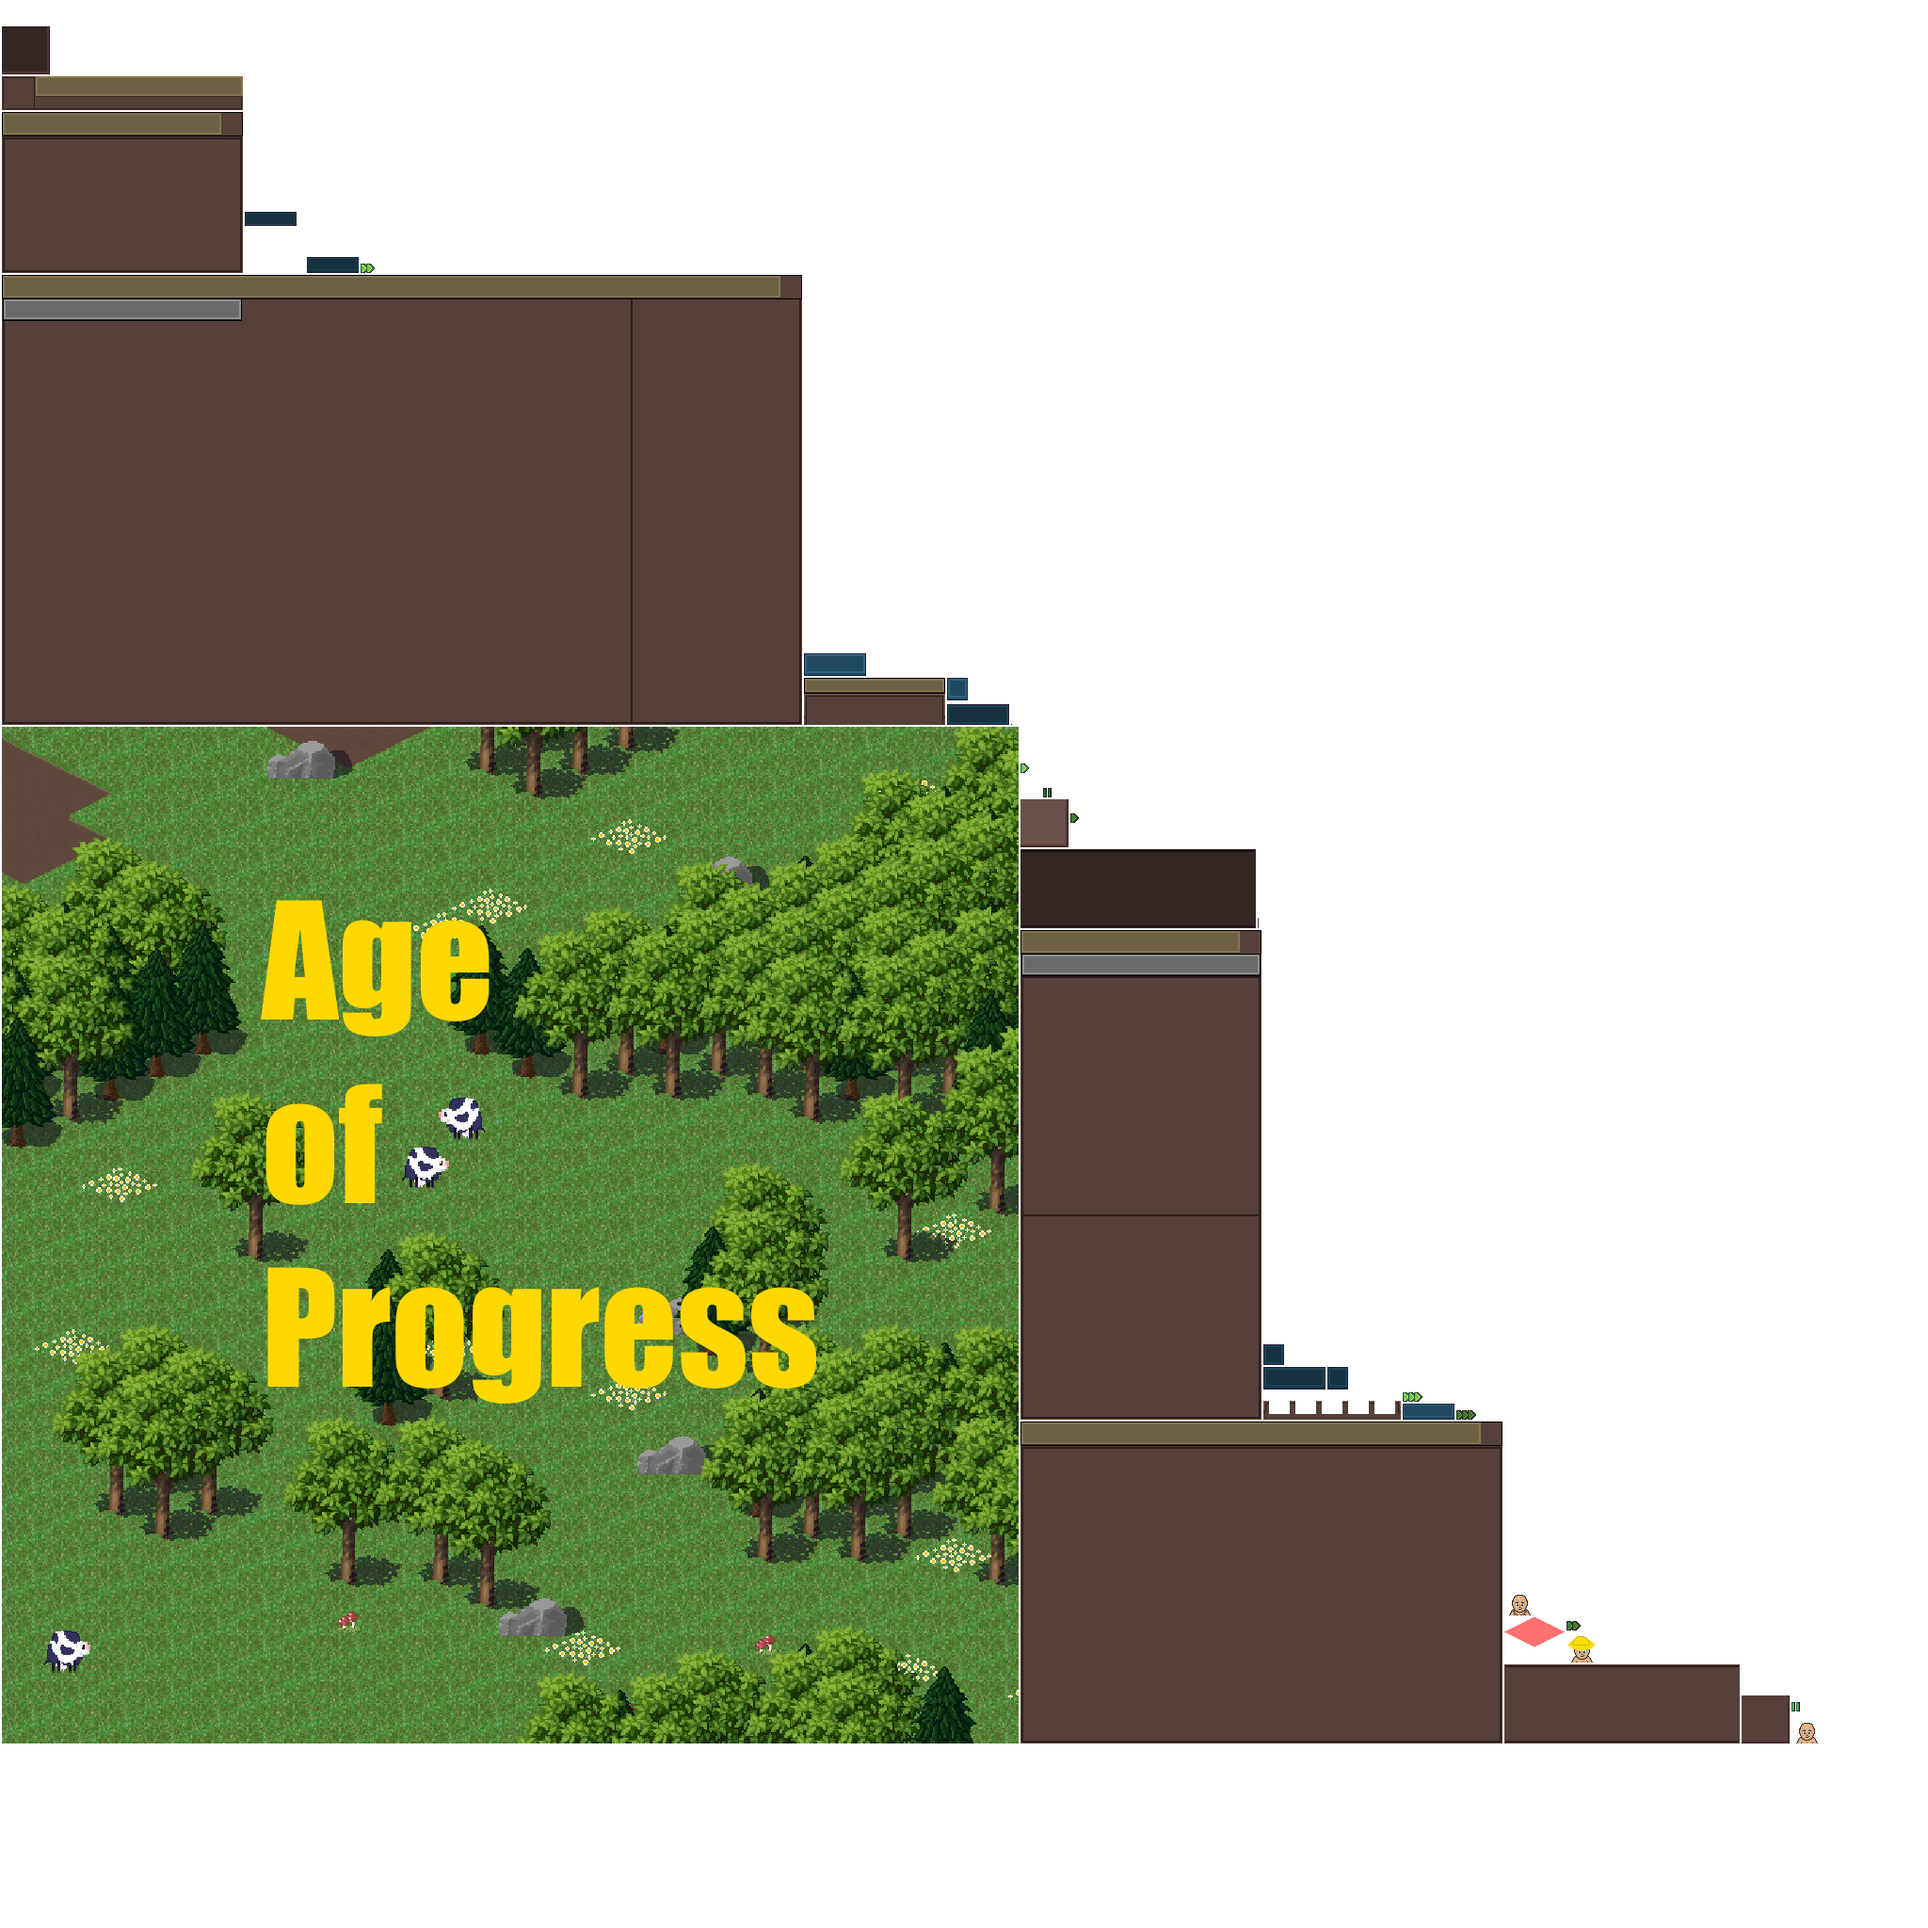
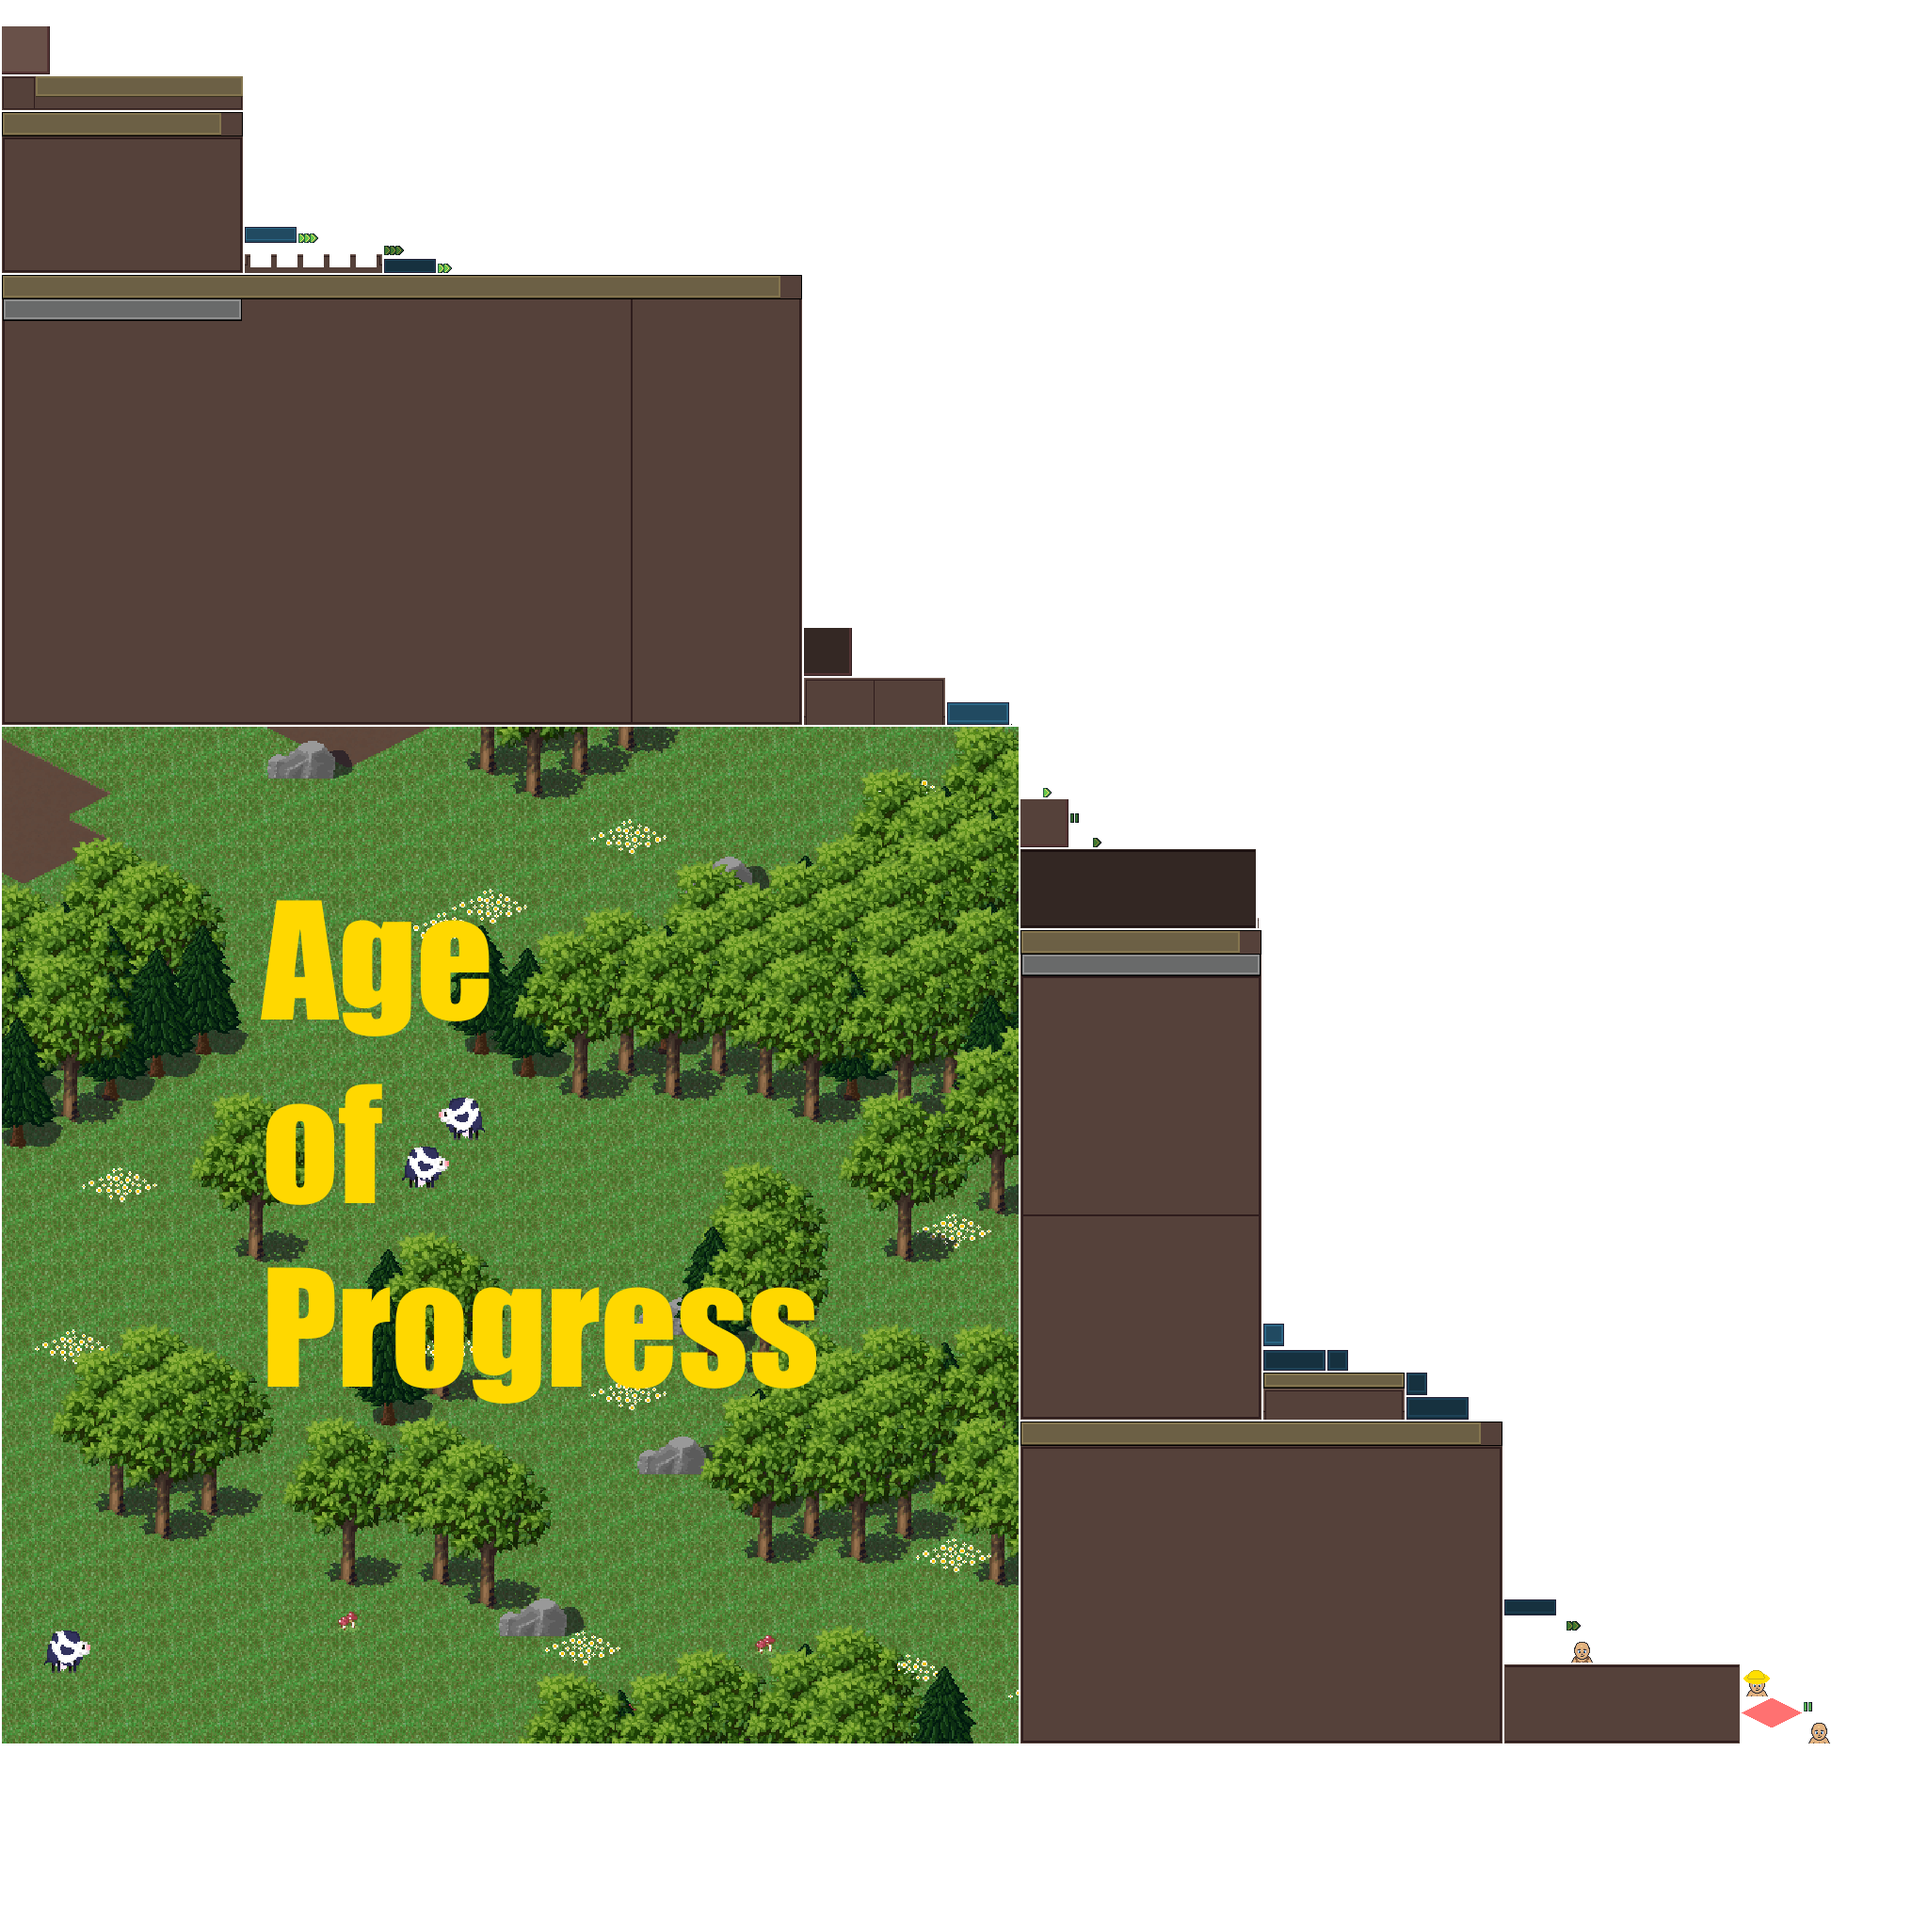
added resource menu bottom right corner

diff --git a/core/src/dev/codewizz/gfx/gui/menus/ResourceMenu.java b/core/src/dev/codewizz/gfx/gui/menus/ResourceMenu.java
@@ -1,0 +1,89 @@
+package dev.codewizz.gfx.gui.menus;
+
+import com.badlogic.gdx.Gdx;
+import com.badlogic.gdx.scenes.scene2d.InputListener;
+import com.badlogic.gdx.scenes.scene2d.Stage;
+import com.badlogic.gdx.scenes.scene2d.ui.Image;
+import com.badlogic.gdx.scenes.scene2d.ui.Table;
+import dev.codewizz.gfx.gui.elements.UILabel;
+import dev.codewizz.gfx.gui.layers.GameLayer;
+import dev.codewizz.gfx.gui.layers.Layer;
+import dev.codewizz.main.Main;
+import dev.codewizz.utils.Assets;
+import dev.codewizz.world.items.ItemType;
+
+import java.util.HashMap;
+import java.util.Map;
+
+public class ResourceMenu extends Menu implements IUpdateDataMenu {
+
+    private HashMap<ItemType, UILabel> labels;
+
+    public ResourceMenu(Stage stage, GameLayer layer) {
+        super(stage, layer);
+
+        this.shouldClose = false;
+    }
+
+    @Override
+    protected void setup() {
+        labels = new HashMap<>();
+
+        Table main = new Table();
+        base.add(main).expand().size(150 * Layer.scale, 50 * Layer.scale).bottom().right().padRight(Gdx.graphics.getHeight() * 0.05f);
+        main.setBackground(new Image(Assets.getSprite("resource-menu-background")).getDrawable());
+
+        Table left = new Table();
+        main.add(left).expand().size(71 * Layer.scale, 0).fillY().pad(3 * Layer.scale, 3 * Layer.scale, 0, 0);
+
+        addRawResource(left, ItemType.WOOD);
+        addRawResource(left, ItemType.STONE);
+
+        Table right = new Table();
+        main.add(right).expand().size(72 * Layer.scale, 0).fillY().pad(3 * Layer.scale, Layer.scale, 0, 3 * Layer.scale);
+
+        addResource(right, ItemType.PLANKS);
+    }
+
+    private void addRawResource(Table left, ItemType type) {
+        Table resource = new Table();
+
+        Image image = new Image(type.getSprite());
+        UILabel label = UILabel.create("0", UILabel.defaultStyle);
+
+        resource.add(image).size(12 * Layer.scale).left().top().pad(Layer.scale);
+        resource.add(label).left().top();
+
+        left.add(resource).expand().left().top();
+        left.row();
+
+        labels.put(type, label);
+    }
+
+    private void  addResource(Table right, ItemType type) {
+        Table resource = new Table();
+
+        Image image = new Image(type.getSprite());
+        UILabel label = UILabel.create("0", UILabel.defaultStyle);
+
+        Table input = new Table();
+
+        resource.add(image).size(12 * Layer.scale).left().top().pad(Layer.scale);
+        resource.add(label).left().top();
+        resource.add(input).expand().left().top();
+
+        right.add(resource).expand().left().top();
+        right.row();
+
+        labels.put(type, label);
+    }
+
+    @Override
+    public void updateData() {
+        if (Main.inst.world.settlement != null) {
+            for (Map.Entry<ItemType, UILabel> type : labels.entrySet()) {
+                type.getValue().setText("" + Main.inst.world.settlement.inventory.getSizeOf(type.getKey()));
+            }
+        }
+    }
+}

diff --git a/core/src/dev/codewizz/gfx/gui/elements/UITextButton.java b/core/src/dev/codewizz/gfx/gui/elements/UITextButton.java
@@ -12,6 +12,7 @@ public class UITextButton extends TextButton {
 
     public final static TextButtonStyle defaultStyle = new TextButtonStyle();
     public final static TextButtonStyle smallStyle = new TextButtonStyle();
+    public final static TextButtonStyle resourceStyle = new TextButtonStyle();
 
     private float moveText = Layer.scale * 2;
 
@@ -43,6 +44,9 @@ public class UITextButton extends TextButton {
         smallStyle.disabled = new NinePatchDrawable(buttonDisabledPatchSmall);
         smallStyle.font = UILabel.smallFont;
         smallStyle.fontColor = Color.WHITE;
+
+        resourceStyle.font = UILabel.mediumFont;
+        resourceStyle.fontColor = Color.WHITE;
     }
 
     private UITextButton(String text) {
